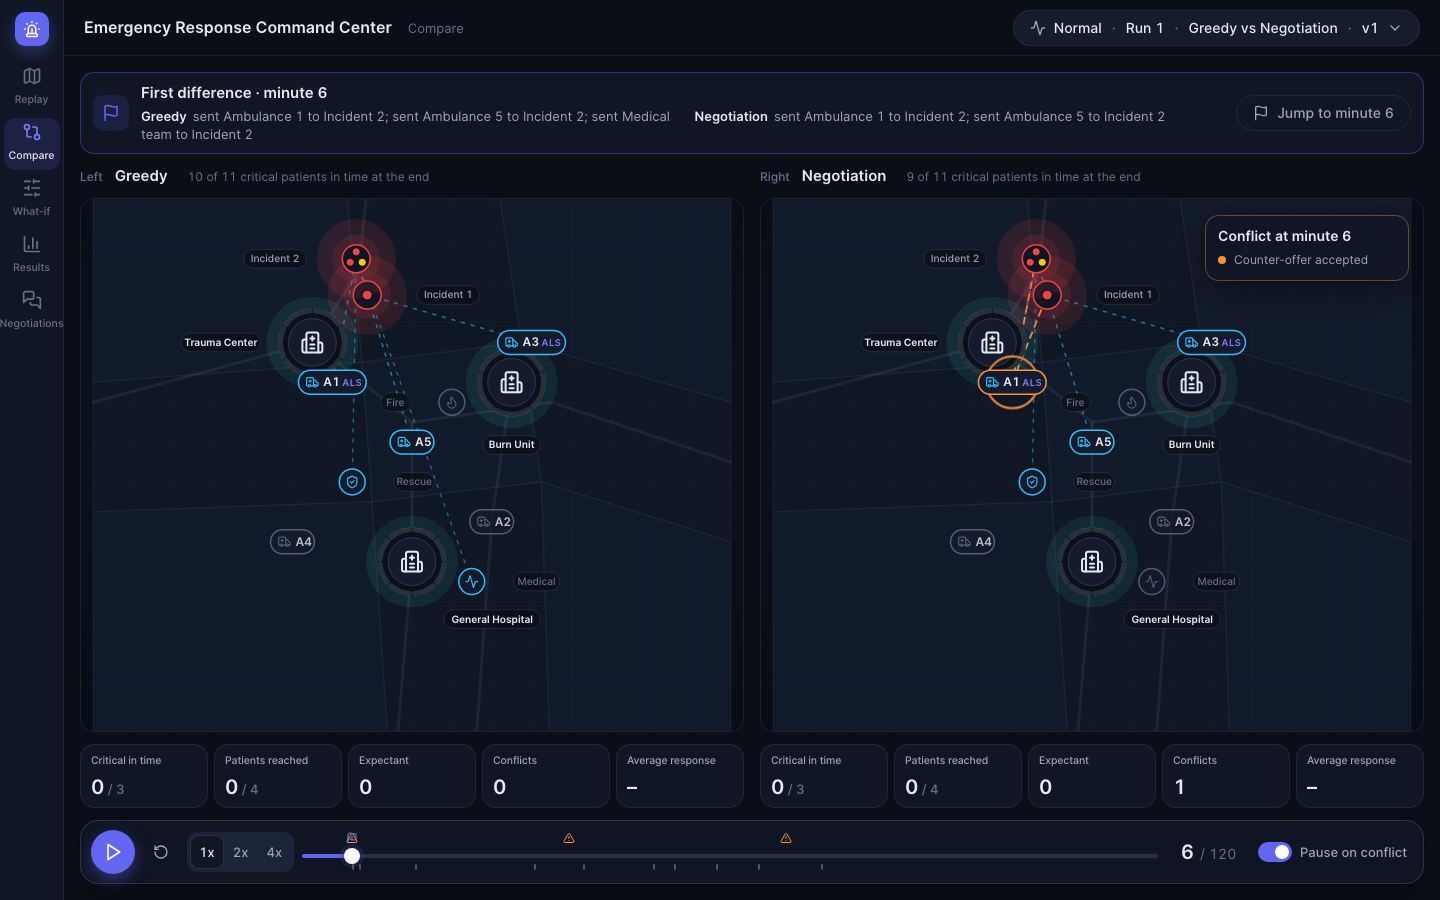
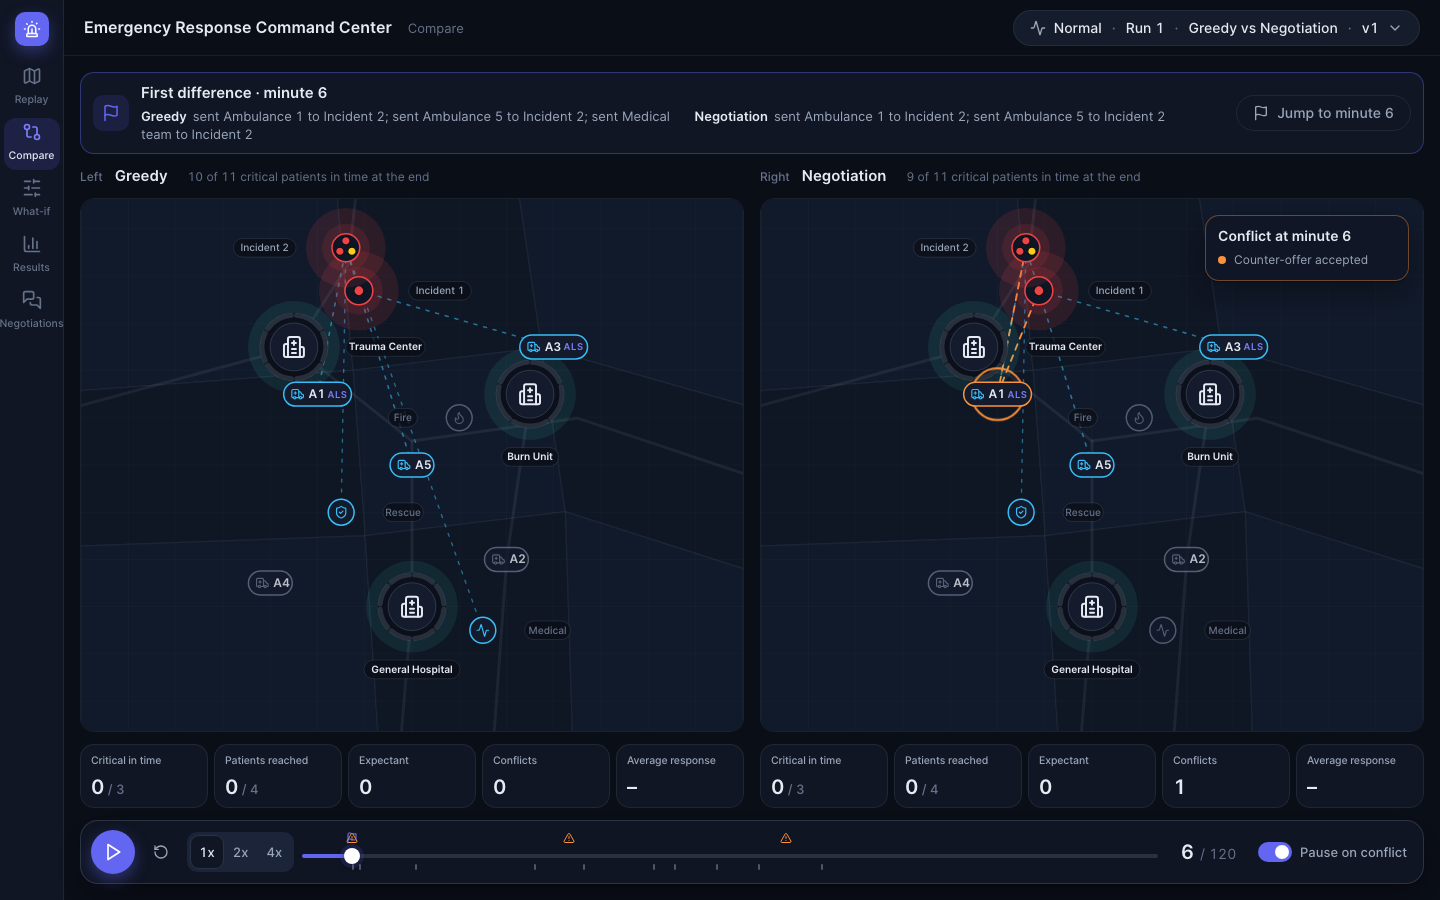
dashboard: What-if note uses each system's own in-time count; Compare maps use the full box on laptops, label placement by overlap area

diff --git a/dashboard/replay_app/app.js b/dashboard/replay_app/app.js
@@ -138,8 +138,9 @@
 
   function geom() {
     const r = $("map").getBoundingClientRect(), W = r.width, H = r.height;
-    const bottom = 90, top = 44;
-    const S = Math.min((H - bottom - top) / KM, (W - 80) / KM);
+    const tight = document.body.classList.contains("mode-compare") && document.body.dataset.d !== "lg";   // laptop Compare: the playbar sits below the maps, so the city can use the whole box (the 1920 playbar floats over the bottom)
+    const bottom = tight ? 30 : 90, top = tight ? 30 : 44, side = tight ? 36 : 80;
+    const S = Math.min((H - bottom - top) / KM, (W - side) / KM);
     return { W, H, S, X0: (W - KM * S) / 2, bottom, X: (x) => (W - KM * S) / 2 + x * S, Y: (y) => H - bottom - y * S };
   }
   const DOCK_CLUSTER = [[-50, -16], [50, 16], [0, 46], [0, -46], [-56, 36], [56, -36]];
@@ -321,7 +322,7 @@
     });
     const placeUnit = (u, pos, w, h) => {
       const off = dock.get(u) || [0, 0];
-      u.px = G.X(pos.x) + off[0]; u.py = G.Y(pos.y) + off[1];
+      u.px = clamp(G.X(pos.x) + off[0], 36, G.W - 36); u.py = clamp(G.Y(pos.y) + off[1], 22, G.H - Math.max(22, G.bottom - 14));        // never half off the map
       u.g.setAttribute("transform", `translate(${u.px},${u.py})`);
       taken.push(rectAt(u.px, u.py, w, h));
     };
@@ -370,12 +371,13 @@
     const place = (cx, cy, text, spots, tone, bold) => {
       const LS = G.W < 700 ? 0.85 : 1;                                           // labels shrink a little on small maps (Compare on a laptop)
       const w = (8 + text.length * 6.6) * LS, list = spots(w), hh = 11 * LS;
-      const inside = (x, y) => x - w / 2 >= 8 && x + w / 2 <= G.W - 8 && y - hh >= 8 && y + hh <= G.H - 100;
+      const inside = (x, y) => x - w / 2 >= 8 && x + w / 2 <= G.W - 8 && y - hh >= 8 && y + hh <= G.H - G.bottom - 10;
       const ring = [];                                                           // farther candidates, all around, for crowded spots
-      for (const r of [48 * LS, 72 * LS, 96 * LS]) for (let a = 0; a < 8; a++) ring.push([Math.cos((a * Math.PI) / 4) * (r + w / 3), Math.sin((a * Math.PI) / 4) * r]);
-      const cost = ([dx, dy]) => taken.filter((o) => overlap(rectAt(cx + dx, cy + dy, w + 4, 26 * LS), o)).length;
+      for (const r of [48 * LS, 72 * LS, 96 * LS, 124 * LS]) for (let a = 0; a < 16; a++) ring.push([Math.cos((a * Math.PI) / 8) * (r + w / 3), Math.sin((a * Math.PI) / 8) * r]);
+      const area = (a, b) => Math.max(0, Math.min(a.x1, b.x1) - Math.max(a.x0, b.x0)) * Math.max(0, Math.min(a.y1, b.y1) - Math.max(a.y0, b.y0));
+      const cost = ([dx, dy]) => taken.reduce((sum, o) => sum + area(rectAt(cx + dx, cy + dy, w + 4, 26 * LS), o), 0);   // overlapped area, so the least-bad spot wins when none is free
       const all = [...list, ...ring].filter(([dx, dy]) => inside(cx + dx, cy + dy));
-      const pick = all.find((p) => cost(p) === 0) || all.sort((p, q) => cost(p) - cost(q))[0] || list[0];
+      const pick = all.find((p) => cost(p) === 0) || all.sort((p, q) => cost(p) - cost(q) || Math.hypot(p[0], p[1]) - Math.hypot(q[0], q[1]))[0] || list[0];
       const x = cx + pick[0], y = cy + pick[1];
       taken.push(rectAt(x, y, w, 22 * LS));
       const g = el("g", {}, layers.labels);

diff --git a/src/erc/dashboard/whatif.py b/src/erc/dashboard/whatif.py
@@ -78,7 +78,7 @@ def parse_params(amb, inc, seed, profile) -> tuple[int, int, int, ScenarioName]:
 def summarize_run(metrics: dict) -> dict:
     """The few numbers the result cards show, from a run's metrics."""
     n_crit = metrics["n_critical"]
-    served = n_crit - metrics["critical_unserved"] if n_crit else 0
+    served = round(metrics["critical_service_rate"] * n_crit) if n_crit else 0   # in time, not merely reached
     return {"csr": metrics["critical_service_rate"], "n_critical": n_crit, "n_victims": metrics["n_victims"],
             "reached": metrics["contacted_rate"], "response": metrics["response_mean"], "never_reached": metrics["critical_unserved"],
             "served_note": f"{served} of {n_crit} critical patients in time · {metrics['n_victims']} patients total" if n_crit else f"no critical patients · {metrics['n_victims']} patients total"}

diff --git a/tests/test_dashboard_whatif.py b/tests/test_dashboard_whatif.py
@@ -65,6 +65,9 @@ def test_summaries_and_difference_for_the_cards():
     summaries = {m: summarize_run(result[m]["metrics"]) for m in result}
     assert summaries["greedy"]["csr"] == pytest.approx(10 / 11) and summaries["greedy"]["n_critical"] == 11
     assert difference_points(summaries) == pytest.approx(45.5, abs=0.1) and "critical patients in time · 26 patients total" in summaries["greedy"]["served_note"]
+    for mode, expected in (("naive", "5 of 11"), ("greedy", "10 of 11")):          # each note uses its own system's count
+        s = summaries[mode]
+        assert s["served_note"].startswith(expected) and round(s["csr"] * s["n_critical"]) == int(expected.split()[0])
     assert difference_points({"naive": {"csr": None}, "greedy": {"csr": 0.5}}) is None
 
 
